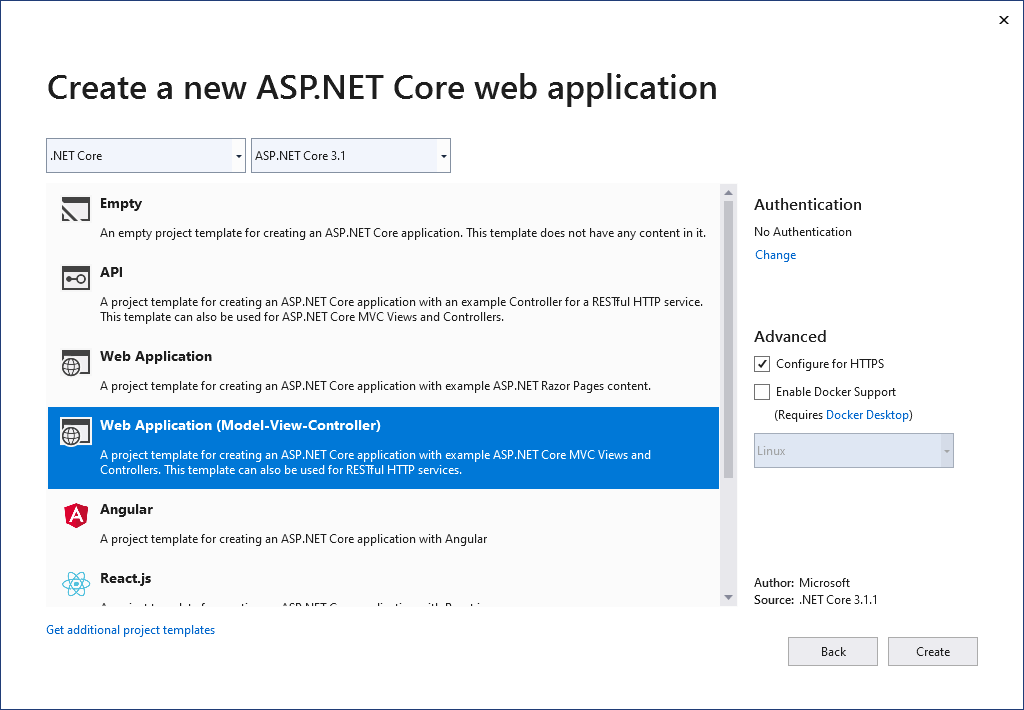
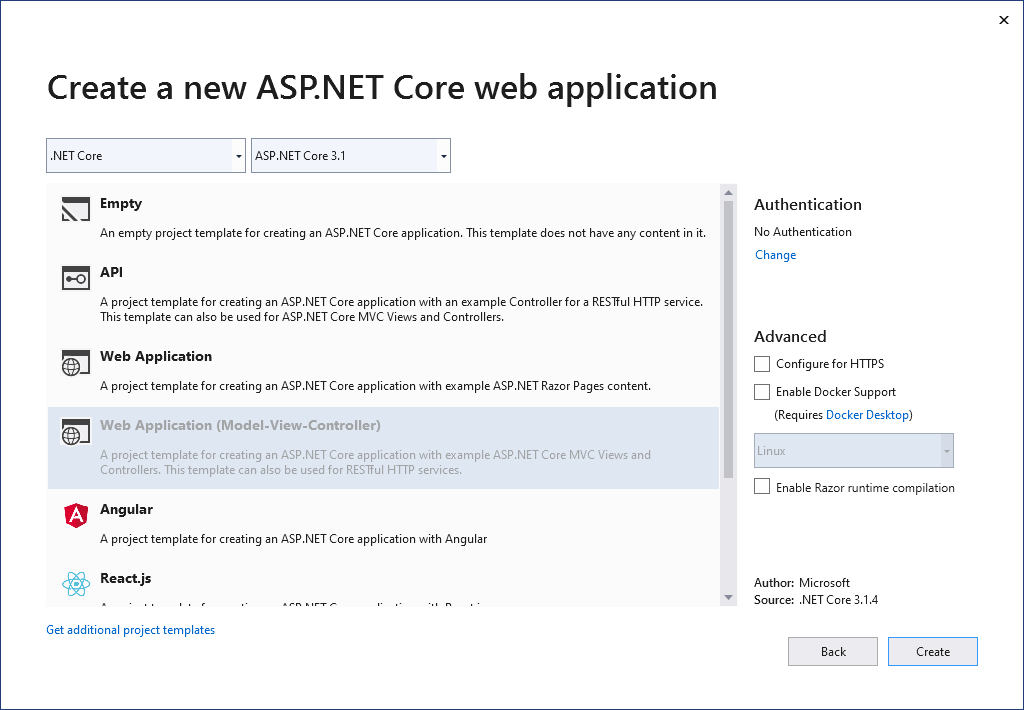
update template shot to unselect https option

Changed region(s): [[0.0312, 0.5577, 0.7188, 0.7127], [0.75, 0.6817, 0.9375, 0.7127]]

diff --git a/src/chapters/aspdotnet-intro/initialize.rst b/src/chapters/aspdotnet-intro/initialize.rst
@@ -27,7 +27,8 @@ To create a ASP.NET MVC project, start a new project in Visual Studio.
 
       User names their new project.
 
-#. After naming, select *Web Application (Model-View-Controller)* from the project template options.
+#. After naming, select *Web Application (Model-View-Controller)* from the project template options and unselect
+   *Configure for HTTPS* under the *Advanced* header on the right.
    
    .. figure:: figures/vs-windows-select-mvc-asp-app.png
       :alt: User selects MVC template type from selection menu
@@ -59,7 +60,7 @@ To create a ASP.NET MVC project, start a new project in Visual Studio.
 **All Users:**
 
 #. Visual Studio creates a fully-functional web application for you.
-#. Hit *Run* and take note of the port number your application opens up to.
+#. Hit *Run* (Mac) / *IIS Express* (Windows) and take note of the port number your application opens up to.
 
    .. figure:: figures/portnumber.png
       :alt: Arrow points to URL indicating port number is 5001.
